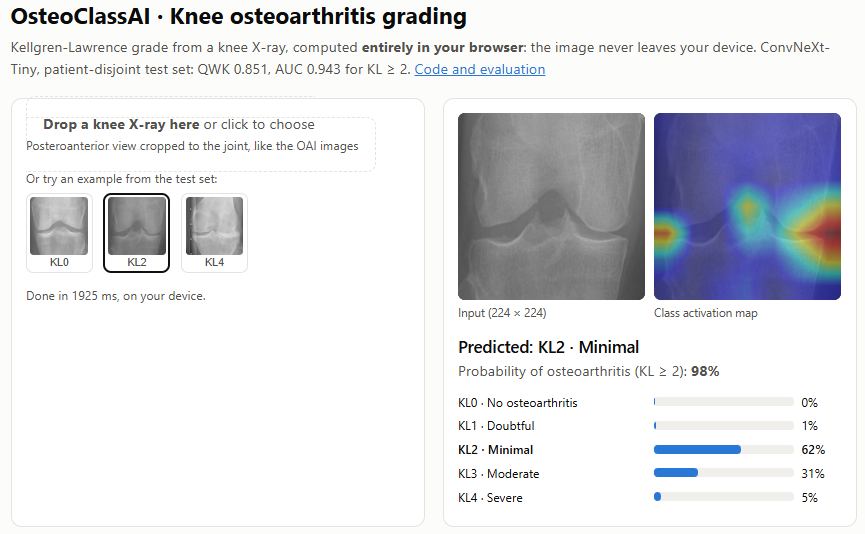
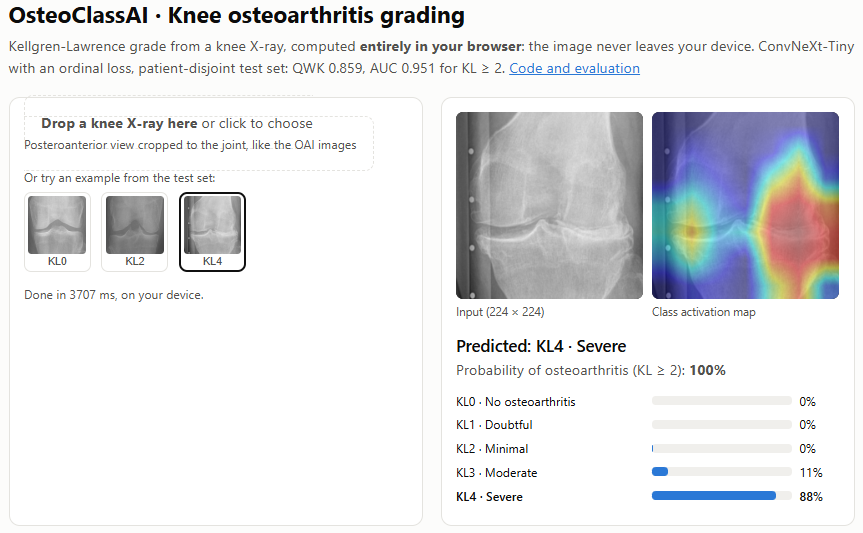
v2: demo with model A (99% int8 agreement), new screenshot

diff --git a/v2/README.md b/v2/README.md
@@ -78,9 +78,9 @@ On one correctly classified test knee per grade, the heat maps sit on the **tibi
 
 **<https://huggingface.co/spaces/walterandres23/osteoclassai>**
 
-<p align="center"><img src="media/demo_web.png" width="760" alt="In-browser demo grading a KL2 knee"></p>
+<p align="center"><img src="media/demo_web.png" width="760" alt="In-browser demo grading a KL4 knee"></p>
 
-The demo runs **model A** (224 px): it is almost as good as B and keeps the page fast. Like the evaluation, it averages the image and its mirror. The model is exported to ONNX (`osteoclass.export_onnx`) with two outputs: the logits and a class activation map (the classifier applied at every location of the last feature map, so no gradients are needed). Weights are stored as int8 per output channel and dequantized on load: 111 MB → 28 MB, with **100% agreement** with the float model on 300 test images. The page (`web/index.html`) runs it with ONNX Runtime Web in about 2 s on a laptop CPU, and the X-ray never leaves the device. Hosted as a free static Hugging Face Space (`notebooks/04_publicar_demo.ipynb`).
+The demo runs **model A** (224 px): it is almost as good as B and keeps the page fast. Like the evaluation, it averages the image and its mirror. The model is exported to ONNX (`osteoclass.export_onnx`) with two outputs: the logits and a class activation map (the classifier applied at every location of the last feature map, so no gradients are needed). Weights are stored as int8 per output channel and dequantized on load: 111 MB → 28 MB, with **99% agreement** with the float model on 300 test images. The page (`web/index.html`) runs it with ONNX Runtime Web in about 4 s on a laptop CPU (two passes, image and mirror), and the X-ray never leaves the device. Hosted as a free static Hugging Face Space (`notebooks/04_publicar_demo.ipynb`).
 
 `app/` holds an equivalent Gradio version with Grad-CAM, for running locally (`python app/app.py` with `best.pt` next to it).
 
